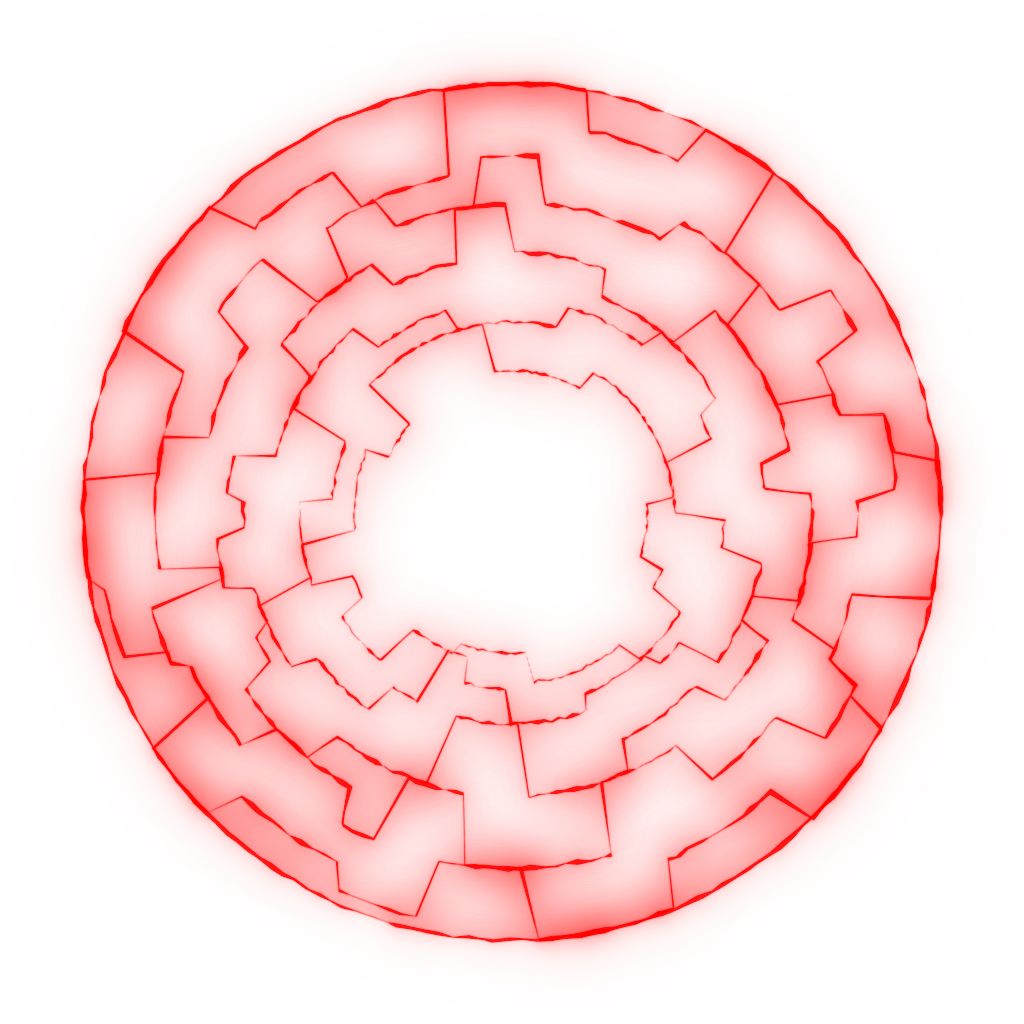
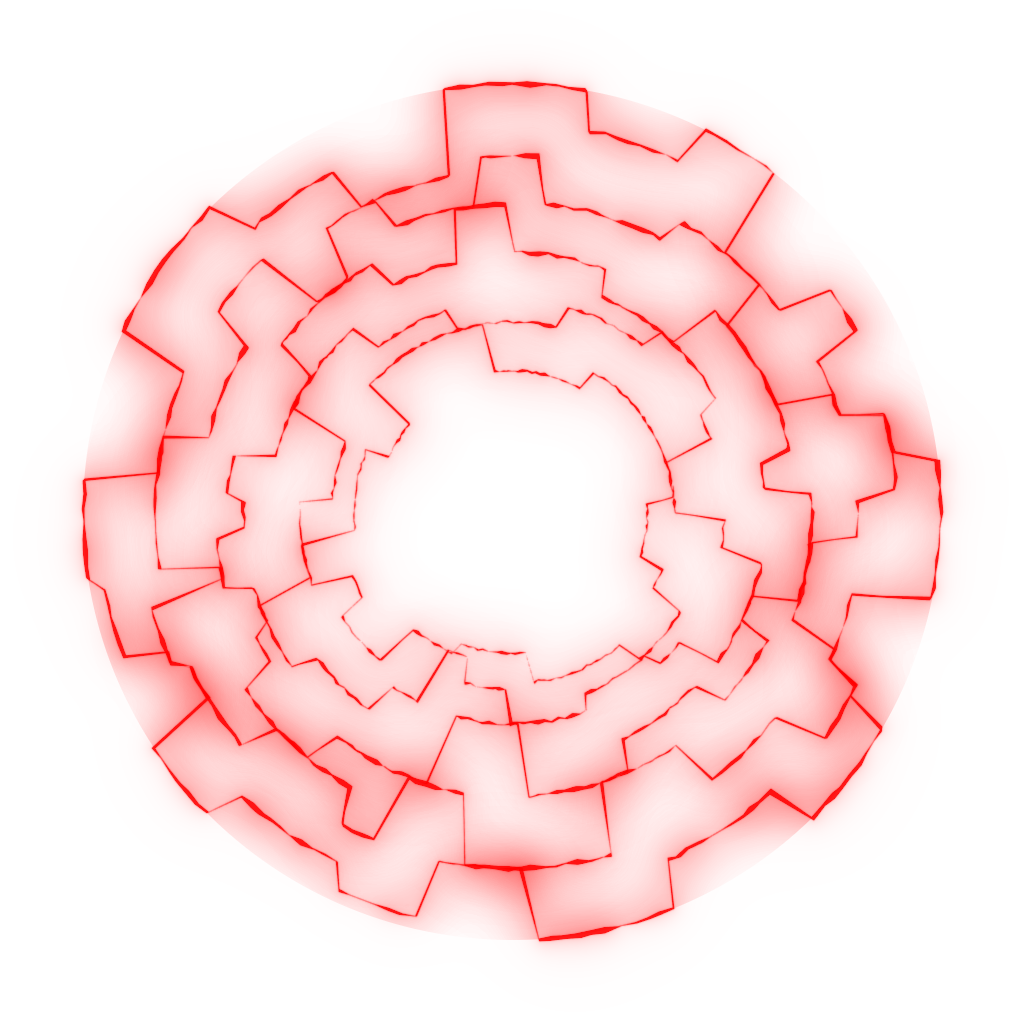
Fixed music crash bug, improved lighting performance and modified shockwave texture

Changed region(s): [[0.0625, 0.0625, 0.9375, 0.9375]]

diff --git a/core/src/com/tint/specular/map/Map.java b/core/src/com/tint/specular/map/Map.java
@@ -166,23 +166,23 @@ public class Map {
 		shapeRenderer.begin(ShapeType.Filled);
 		
 		for(TrailPart tp : gs.getPlayer().getTrail())
-			shapeRenderer.circle(tp.getX(), tp.getY(), tp.getSize());
+			shapeRenderer.rect(tp.getX() - tp.getSize() / 2, tp.getY() - tp.getSize() / 2, tp.getSize(), tp.getSize());
 		
 		for(Bullet b : gs.getBullets()) {
-			shapeRenderer.circle(b.getX(), b.getY(), 160);
+			shapeRenderer.rect(b.getX() - 80, b.getY() - 80, 160, 160);
 		}
 		
 		if(BoardShock.isActivated()) {
 			float size = BoardShock.getShockWaveProgress() * 6144;
-			shapeRenderer.circle(BoardShock.getActivationX(), fbo.getHeight() - BoardShock.getActivationY(), size);
+			shapeRenderer.rect(BoardShock.getActivationX() - size / 2, BoardShock.getActivationY() - size / 2, size, size);
 		}
 		
 		for(Particle e : gs.getParticles()) {
-			shapeRenderer.circle(e.getX(), e.getY(), 160);
+			shapeRenderer.rect(e.getX() - 80, e.getY() - 80, 160, 160);
 		}
 		
 		for(Enemy e : gs.getEnemies()) {
-			shapeRenderer.circle(e.getX(), e.getY(), 160);
+			shapeRenderer.rect(e.getX() - 80, e.getY() - 80, 160, 160);
 		}
 		shapeRenderer.end();
 		

diff --git a/core/src/com/tint/specular/game/BoardShock.java b/core/src/com/tint/specular/game/BoardShock.java
@@ -30,7 +30,7 @@ public class BoardShock {
 		if(activated) {
 			timeActivated += 1;
 			
-			if(timeActivated >= 100) {
+			if(timeActivated >= 120) {
 				activated = false;
 			} else if(timeActivated == 18) {
 				Camera.shake(2.5f, 0.1f);
@@ -53,7 +53,7 @@ public class BoardShock {
 	}
 	
 	public static float getShockWaveProgress() {
-		return (timeActivated - 18) / 82;
+		return (timeActivated - 18) / 102;
 	}
 	
 	public static void setZoom() {

diff --git a/core/src/com/tint/specular/game/GameState.java b/core/src/com/tint/specular/game/GameState.java
@@ -723,9 +723,10 @@ public class GameState extends State {
 	@Override
 	public void hide() {
 		super.hide();
-		music.stop();
-		if(music != null)
+		if(music != null) {
+			music.stop();
 			music.dispose();
+		}
 		music = null;
 		
 		if(!gameMode.isGameOver()) {
